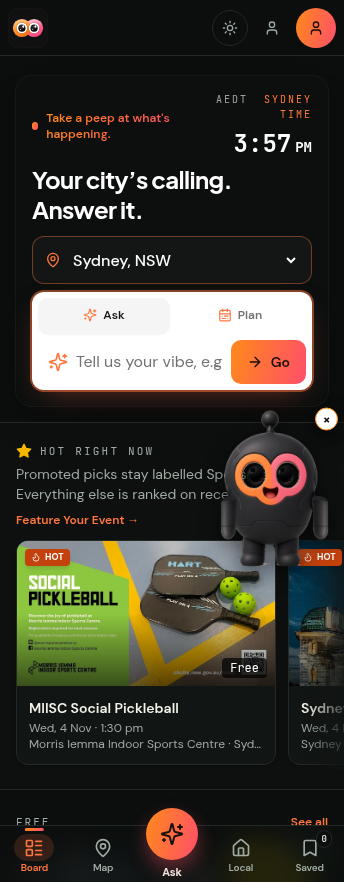
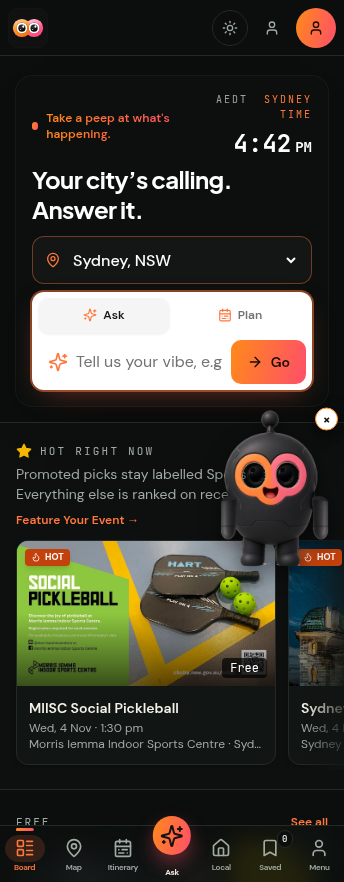
Add Itinerary and Menu around the centred Ask button (#79)
* Put Itinerary and Menu on the bottom bar around Ask.

The row is Board, Map, Itinerary, Ask, Local, Saved, Menu. Menu opens the account list, and the seven targets stay at least 40px tall down to a 280px-wide phone.

* Refresh bottom-nav shots for Itinerary and Menu.

Homepage at 390px, a folded phone, and the signed-out Menu sheet.

---------

diff --git a/components/bottom-nav.tsx b/components/bottom-nav.tsx
@@ -2,15 +2,18 @@
 
 import Link from 'next/link'
 import { useEffect, useRef, useState } from 'react'
-import { Bookmark, House, LayoutList, MapPin, Sparkles } from 'lucide-react'
+import { Bookmark, CalendarRange, House, LayoutList, MapPin, Sparkles, User } from 'lucide-react'
 import { usePathname } from 'next/navigation'
+import { useSession } from 'next-auth/react'
 import { AskSheet } from '@/components/ask-sheet'
+import { MenuSheet } from '@/components/menu-sheet'
 import { navShouldHide, shouldPopSaved } from '@/lib/bottom-nav'
 import './bottom-nav.css'
 
 const LEFT = [
   { key: 'board', label: 'Board', href: '/', Icon: LayoutList },
   { key: 'map', label: 'Map', href: '/map', Icon: MapPin },
+  { key: 'itinerary', label: 'Itinerary', href: '/itinerary', Icon: CalendarRange },
 ] as const
 
 const RIGHT = [
@@ -22,6 +25,7 @@ type TabKey = (typeof LEFT)[number]['key'] | (typeof RIGHT)[number]['key']
 
 function tabCurrent(key: TabKey, pathname: string | null) {
   if (key === 'local') return pathname?.startsWith('/local') ?? false
+  if (key === 'itinerary') return pathname?.startsWith('/itinerary') ?? false
   if (pathname?.startsWith('/local') || pathname?.startsWith('/itinerary')) return false
   if (key === 'map') return pathname === '/map'
   if (key === 'saved') return pathname === '/saved'
@@ -46,8 +50,8 @@ function bounceIcon(target: EventTarget | null) {
 function fieldFocused() {
   const el = document.activeElement
   if (!(el instanceof HTMLElement)) return false
-  if (el.closest('.vp-bottom-nav, .vp-ask-sheet, [role="dialog"]')) return true
-  if (document.documentElement.classList.contains('vp-ask-open')) return true
+  if (el.closest('.vp-bottom-nav, .vp-ask-sheet, .vp-menu-sheet, [role="dialog"]')) return true
+  if (document.documentElement.classList.contains('vp-ask-open') || document.documentElement.classList.contains('vp-menu-open')) return true
   const tag = el.tagName
   return tag === 'INPUT' || tag === 'TEXTAREA' || tag === 'SELECT' || el.isContentEditable
 }
@@ -67,8 +71,14 @@ export function BottomNav({ savedCount, ready = true }: { savedCount: number; re
   const pathname = usePathname()
   const navRef = useRef<HTMLElement>(null)
   const [askOpen, setAskOpen] = useState(false)
+  const [menuOpen, setMenuOpen] = useState(false)
   const [askCity, setAskCity] = useState('Sydney')
   const [askToday, setAskToday] = useState('')
+  const { data: session, status } = useSession()
+  const user = session?.user
+  const signedIn = status === 'authenticated' && !!user
+  const initial = (user?.name || user?.email || '?').charAt(0).toUpperCase()
+  const isPromoter = user?.role === 'PROMOTER' || user?.role === 'ADMIN'
   const [pop, setPop] = useState(false)
   const prevCount = useRef<number | null>(null)
   const wasReady = useRef(false)
@@ -90,8 +100,12 @@ export function BottomNav({ savedCount, ready = true }: { savedCount: number; re
 
   useEffect(() => {
     document.documentElement.classList.toggle('vp-ask-open', askOpen)
-    return () => document.documentElement.classList.remove('vp-ask-open')
-  }, [askOpen])
+    document.documentElement.classList.toggle('vp-menu-open', menuOpen)
+    return () => {
+      document.documentElement.classList.remove('vp-ask-open')
+      document.documentElement.classList.remove('vp-menu-open')
+    }
+  }, [askOpen, menuOpen])
 
   useEffect(() => {
     const nav = navRef.current
@@ -113,12 +127,12 @@ export function BottomNav({ savedCount, ready = true }: { savedCount: number; re
         delta,
         viewportH: window.innerHeight,
         scrollH: document.documentElement.scrollHeight,
-        locked: askOpen || fieldFocused(),
+        locked: askOpen || menuOpen || fieldFocused(),
       })
       if (next != null) setAway(next)
     }
     const showIfLocked = () => {
-      if (askOpen || fieldFocused()) setAway(false)
+      if (askOpen || menuOpen || fieldFocused()) setAway(false)
     }
     window.addEventListener('scroll', onScroll, { passive: true })
     document.addEventListener('focusin', showIfLocked)
@@ -128,7 +142,7 @@ export function BottomNav({ savedCount, ready = true }: { savedCount: number; re
       nav.classList.remove('is-away')
       document.documentElement.classList.remove('vp-nav-away')
     }
-  }, [askOpen])
+  }, [askOpen, menuOpen])
 
   const openAsk = () => {
     const hero = document.getElementById('ai-search')
@@ -145,7 +159,7 @@ export function BottomNav({ savedCount, ready = true }: { savedCount: number; re
 
   const tab = (item: (typeof LEFT)[number] | (typeof RIGHT)[number]) => {
     const current = tabCurrent(item.key, pathname)
-    const name = item.key === 'saved' ? `Saved, ${savedCount}` : item.key === 'local' ? 'VibePeep Local' : item.label
+    const name = item.key === 'saved' ? `Saved, ${savedCount}` : item.key === 'local' ? 'VibePeep Local' : item.label === 'Itinerary' ? 'Itinerary' : item.label
     const { Icon } = item
     return (
       <Link
@@ -165,7 +179,7 @@ export function BottomNav({ savedCount, ready = true }: { savedCount: number; re
             <span className={pop ? 'vp-bottom-count is-pop' : 'vp-bottom-count'} aria-hidden="true">{savedCount}</span>
           )}
         </span>
-        <span>{item.label}</span>
+        <span className="vp-tab-label">{item.label}</span>
       </Link>
     )
   }
@@ -190,12 +204,37 @@ export function BottomNav({ savedCount, ready = true }: { savedCount: number; re
             <span className="vp-ask-face">
               <Sparkles className="h-6 w-6" aria-hidden />
             </span>
-            <span className="vp-ask-label">Ask</span>
+            <span className="vp-ask-label vp-tab-label">Ask</span>
           </button>
           {RIGHT.map(tab)}
+          <button
+            type="button"
+            className="vp-bottom-tab vp-menu"
+            aria-label={signedIn ? `Menu, ${user?.name || user?.email || 'account'}` : 'Menu'}
+            aria-expanded={menuOpen}
+            aria-controls="vp-menu-sheet"
+            onPointerDown={(event) => {
+              bounceIcon(event.currentTarget)
+              buzz()
+            }}
+            onClick={() => setMenuOpen(true)}
+          >
+            <span className="vp-bottom-ico">
+              {signedIn ? <span className="vp-menu-initial" aria-hidden>{initial}</span> : <User className="h-5 w-5" aria-hidden />}
+            </span>
+            <span className="vp-tab-label">Menu</span>
+          </button>
         </div>
       </nav>
       <AskSheet open={askOpen} onOpenChange={setAskOpen} city={askCity} today={askToday} />
+      <MenuSheet
+        open={menuOpen}
+        onOpenChange={setMenuOpen}
+        signedIn={signedIn}
+        name={user?.name || user?.email || 'Account'}
+        isPromoter={isPromoter}
+        isAdmin={user?.role === 'ADMIN'}
+      />
     </>
   )
 }

diff --git a/components/menu-sheet.tsx b/components/menu-sheet.tsx
@@ -1,0 +1,87 @@
+'use client'
+
+import type { ReactNode } from 'react'
+import Link from 'next/link'
+import { Bookmark, Building2, CalendarRange, LogOut, Megaphone, Settings, ShieldCheck, Sparkles, User, Users } from 'lucide-react'
+import { signOut } from 'next-auth/react'
+import { TrustCount } from '@/components/admin-nav'
+import { Sheet, SheetContent, SheetHeader, SheetTitle } from '@/components/ui/sheet'
+
+type Item = {
+  href?: string
+  label: string
+  Icon: typeof User
+  onClick?: () => void
+  extra?: ReactNode
+}
+
+/** Same destinations as the header account menu, in a thumb-height sheet. */
+export function MenuSheet({
+  open,
+  onOpenChange,
+  signedIn,
+  name,
+  isPromoter,
+  isAdmin,
+}: {
+  open: boolean
+  onOpenChange: (open: boolean) => void
+  signedIn: boolean
+  name: string
+  isPromoter: boolean
+  isAdmin: boolean
+}) {
+  const close = () => onOpenChange(false)
+  const venue = process.env.NEXT_PUBLIC_OWNERSHIP_UI !== '0'
+  const items: Item[] = signedIn
+    ? [
+        { href: '/itinerary', label: 'Itinerary', Icon: CalendarRange },
+        { href: '/watchlist', label: 'My VibePeep', Icon: Bookmark },
+        { href: '/together', label: 'VibePeep Together', Icon: Users },
+        { href: '/outings', label: 'Day and night plans', Icon: Sparkles },
+        { href: '/account', label: 'My account & emails', Icon: Settings },
+        isPromoter
+          ? { href: '/promoter', label: 'Promoter dashboard', Icon: Megaphone }
+          : { href: '/promoters', label: 'For promoters', Icon: Megaphone },
+        ...(venue ? [{ href: '/venue', label: 'My venue', Icon: Building2 }] : []),
+        ...(isAdmin ? [{ href: '/admin/trust', label: 'Trust & listings', Icon: ShieldCheck, extra: <TrustCount className="ml-auto" /> }] : []),
+        { label: 'Sign out', Icon: LogOut, onClick: () => { close(); void signOut({ redirectTo: '/' }) } },
+      ]
+    : [
+        { href: '/login', label: 'Sign in', Icon: User },
+        { href: '/signup', label: 'Sign up', Icon: User },
+        { href: '/promoters', label: 'For promoters', Icon: Megaphone },
+      ]
+
+  return (
+    <Sheet open={open} onOpenChange={onOpenChange}>
+      <SheetContent side="bottom" id="vp-menu-sheet" className="vp-ask-sheet vp-menu-sheet">
+        <SheetHeader className="space-y-1 pr-8 text-left">
+          <SheetTitle className="font-display">{signedIn ? name : 'Menu'}</SheetTitle>
+        </SheetHeader>
+        <ul className="mt-2">
+          {items.map((item) => {
+            const { Icon } = item
+            const className = 'flex min-h-11 w-full items-center gap-3 rounded-xl px-2 text-left text-base font-medium hover:bg-muted'
+            const inner = (
+              <>
+                <Icon className="h-5 w-5 shrink-0 text-primary" aria-hidden />
+                <span className="min-w-0 flex-1">{item.label}</span>
+                {item.extra}
+              </>
+            )
+            return (
+              <li key={item.label}>
+                {item.href ? (
+                  <Link href={item.href} className={className} onClick={close}>{inner}</Link>
+                ) : (
+                  <button type="button" className={className} onClick={item.onClick}>{inner}</button>
+                )}
+              </li>
+            )
+          })}
+        </ul>
+      </SheetContent>
+    </Sheet>
+  )
+}

diff --git a/components/bottom-nav.css b/components/bottom-nav.css
@@ -127,9 +127,9 @@
   align-items: center;
   justify-content: center;
   gap: 0.125rem;
-  min-width: 2.75rem;
-  min-height: 2.75rem;
-  padding: 0.3rem 0.1rem 0.35rem;
+  min-width: 0;
+  min-height: 2.5rem;
+  padding: 0.2rem 0 0.28rem;
   border-radius: 0.85rem;
   color: hsl(var(--muted-foreground));
   font-family: var(--font-sans), system-ui, sans-serif;
@@ -215,9 +215,9 @@
   flex-direction: column;
   align-items: center;
   justify-content: flex-end;
-  min-width: 2.75rem;
-  min-height: 2.75rem;
-  padding: 0 0.1rem 0.28rem;
+  min-width: 0;
+  min-height: 2.5rem;
+  padding: 0 0 0.28rem;
   border: 0;
   background: transparent;
   color: hsl(var(--foreground));
@@ -253,7 +253,31 @@
   outline-offset: 3px;
 }
 
-.vp-ask-sheet {
+.vp-tab-label {
+  max-width: 100%;
+  overflow: hidden;
+  text-overflow: ellipsis;
+  white-space: nowrap;
+  font-size: clamp(8px, 2.35cqi, 11px);
+  letter-spacing: -0.04em;
+}
+
+.vp-menu-initial {
+  display: grid;
+  width: 1.35rem;
+  height: 1.35rem;
+  place-items: center;
+  border-radius: 999px;
+  background: hsl(var(--primary));
+  color: hsl(var(--primary-foreground));
+  font-family: var(--font-display), var(--font-sans), sans-serif;
+  font-size: 0.7rem;
+  font-weight: 700;
+  line-height: 1;
+}
+
+.vp-ask-sheet,
+.vp-menu-sheet {
   left: 0 !important;
   right: 0 !important;
   bottom: var(--vp-bottom-nav-offset) !important;
@@ -300,10 +324,24 @@
   }
 }
 
-@container (max-width: 22rem) {
-  .vp-bottom-tab {
-    font-size: 0.625rem;
-    letter-spacing: -0.02em;
+@container (max-width: 24rem) {
+  .vp-ask-face {
+    width: 2.4rem;
+    height: 2.4rem;
+    bottom: 1.7rem;
+  }
+}
+
+@container (max-width: 20rem) {
+  .vp-tab-label {
+    font-size: 8px;
+    letter-spacing: -0.06em;
+  }
+
+  .vp-ask-face {
+    width: 2.15rem;
+    height: 2.15rem;
+    bottom: 1.85rem;
   }
 }
 
@@ -321,7 +359,8 @@
 
   .vp-bottom-nav,
   .vp-ticket-bar,
-  .vp-ask-sheet {
+  .vp-ask-sheet,
+  .vp-menu-sheet {
     left: env(viewport-segment-left 0 0) !important;
     width: env(viewport-segment-width 0 0) !important;
     right: auto !important;
@@ -352,7 +391,8 @@
 
   .vp-bottom-nav,
   .vp-ticket-bar,
-  .vp-ask-sheet {
+  .vp-ask-sheet,
+  .vp-menu-sheet {
     left: 0 !important;
     width: env(fold-left) !important;
     right: auto !important;
@@ -453,7 +493,8 @@ html[data-vp-fold='side'] .vp-bottom-nav {
 }
 
 html[data-vp-fold='side'] .vp-ticket-bar,
-html[data-vp-fold='side'] .vp-ask-sheet {
+html[data-vp-fold='side'] .vp-ask-sheet,
+html[data-vp-fold='side'] .vp-menu-sheet {
   left: 0 !important;
   width: calc((100% - 24px) / 2) !important;
   right: auto !important;
